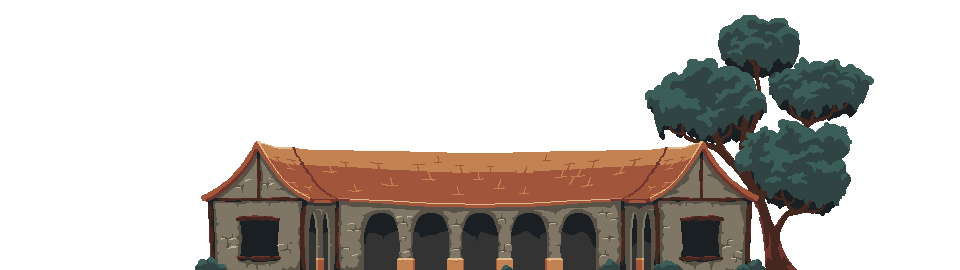
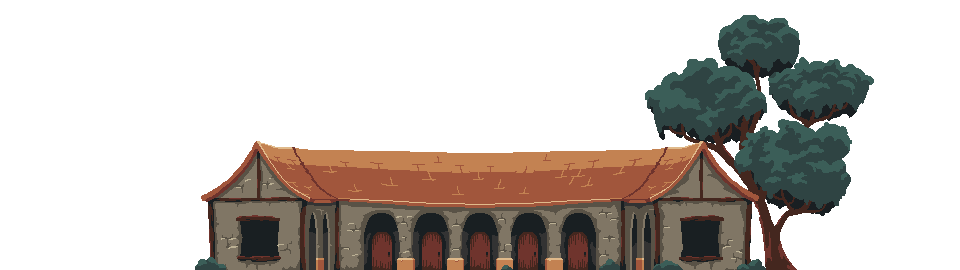
Added Doors to barracks
I forgot to commit my changes last night to the repo, so I'm making a new branch, that way I don't accidently mess something up.

Changed region(s): [[0.375, 0.8593, 0.625, 1.0]]

diff --git a/Assets/Programming/Backend Systems/Level Management/LevelManager.cs b/Assets/Programming/Backend Systems/Level Management/LevelManager.cs
@@ -127,7 +127,8 @@ public class LevelManager : MonoBehaviour
 
         yield return new WaitUntil(() => {
             sceneDoors = sceneDoors.Where(s => s != null).ToList();
-            return (sceneDoors.Count == (FindObjectsOfType<LevelDoorway>().Count()));
+            List<LevelDoorway> activeDoors = sceneDoors.Where(s => s.isActiveAndEnabled ==true).ToList();
+            return (sceneDoors.Count == activeDoors.Count);
         }); //Wait for doors
 
         LevelDoorway toDoor = FindDoorway(sceneDoors, doorWayID);
@@ -144,7 +145,7 @@ public class LevelManager : MonoBehaviour
         if (toDoor != null)
         {
             player.position = toDoor.transform.position;
-            Debug.Log("Teleporting To Door");
+            Debug.Log("Teleporting To Door : " + toDoor);
             toDoor.OnDoorwayExit();
         }
 
